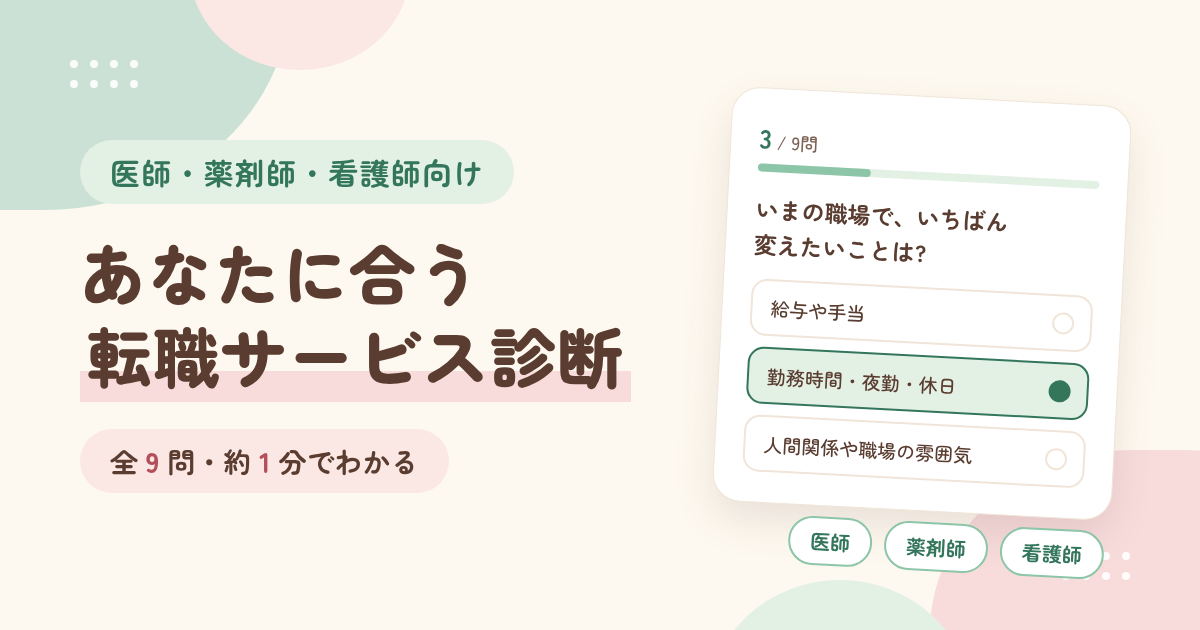
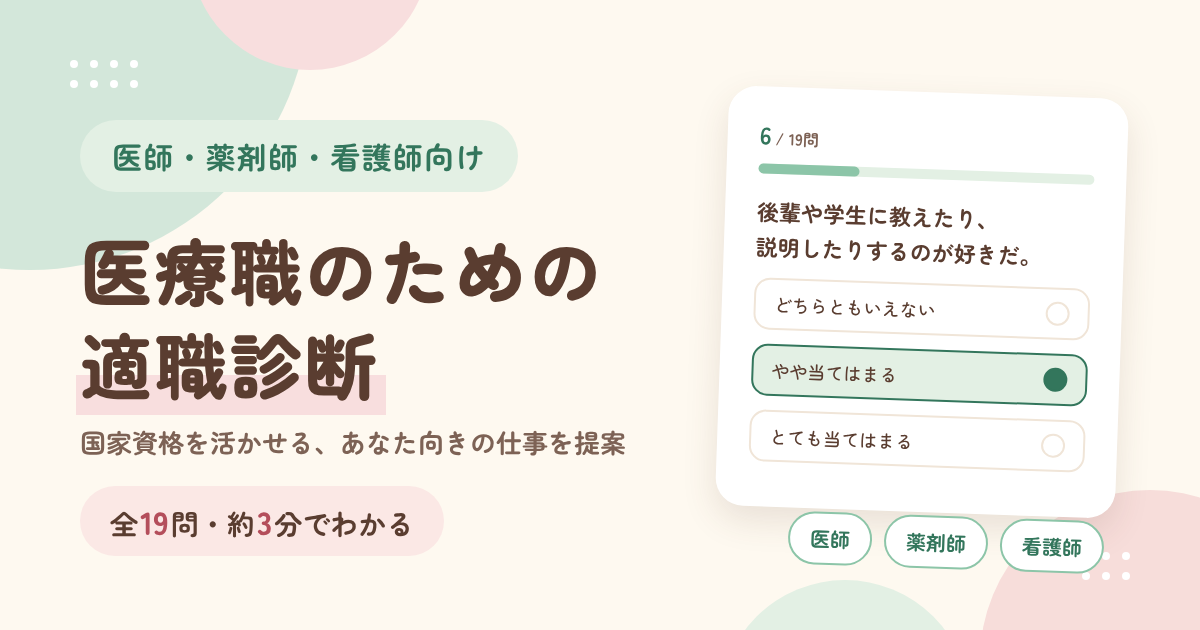
Replace OGP image with the career-fit diagnosis design
Claude-Session: https://claude.ai/code/session_01ExXpZ3euKVCGf5KCe2pHov

diff --git a/index.html b/index.html
@@ -17,7 +17,7 @@
   <meta property="og:image" content="https://k4520428-cmyk.github.io/shimi/images/ogp.png">
   <meta property="og:image:width" content="1200">
   <meta property="og:image:height" content="630">
-  <meta property="og:image:alt" content="医師・薬剤師・看護師向け あなたに合う転職サービス診断">
+  <meta property="og:image:alt" content="医師・薬剤師・看護師向け 医療職のための適職診断">
   <!-- ▼ og:url は公開しているページのURLです -->
   <meta property="og:url" content="https://k4520428-cmyk.github.io/shimi/">
   <meta property="og:site_name" content="医療職のための適職診断">
